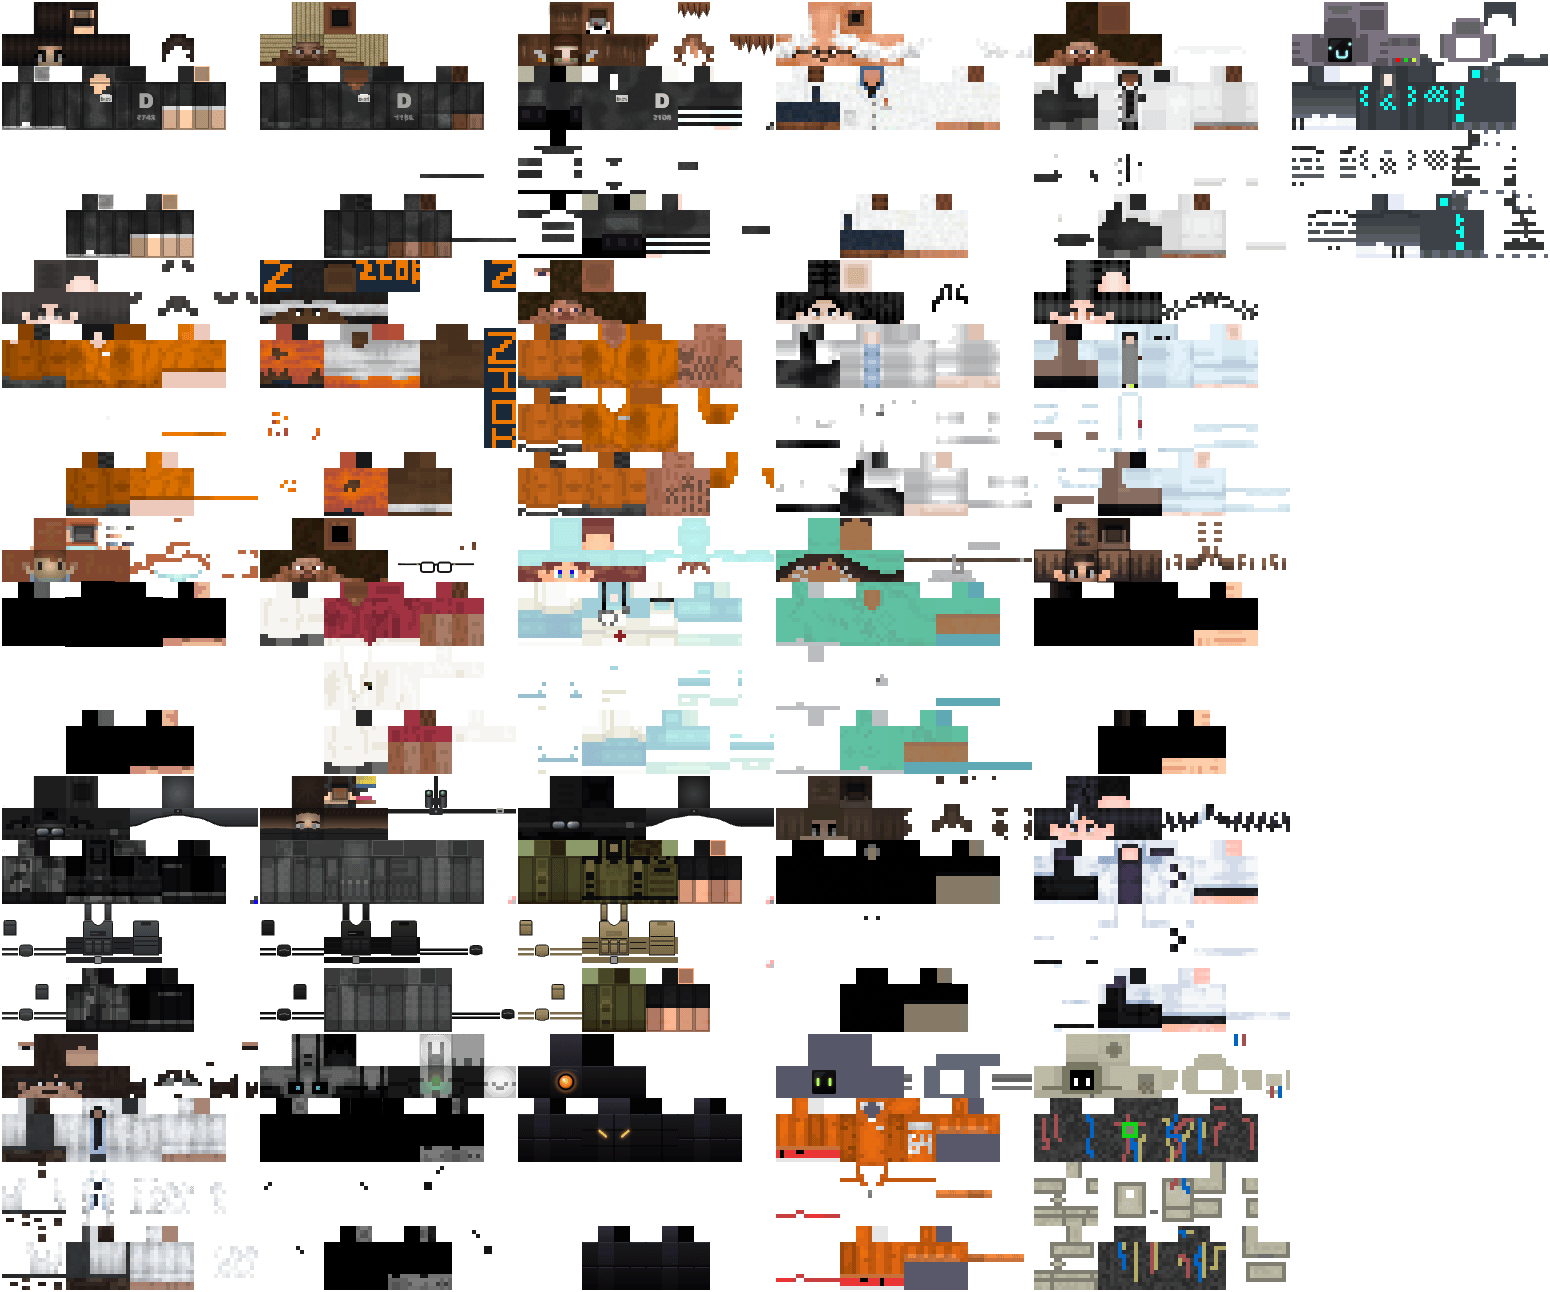
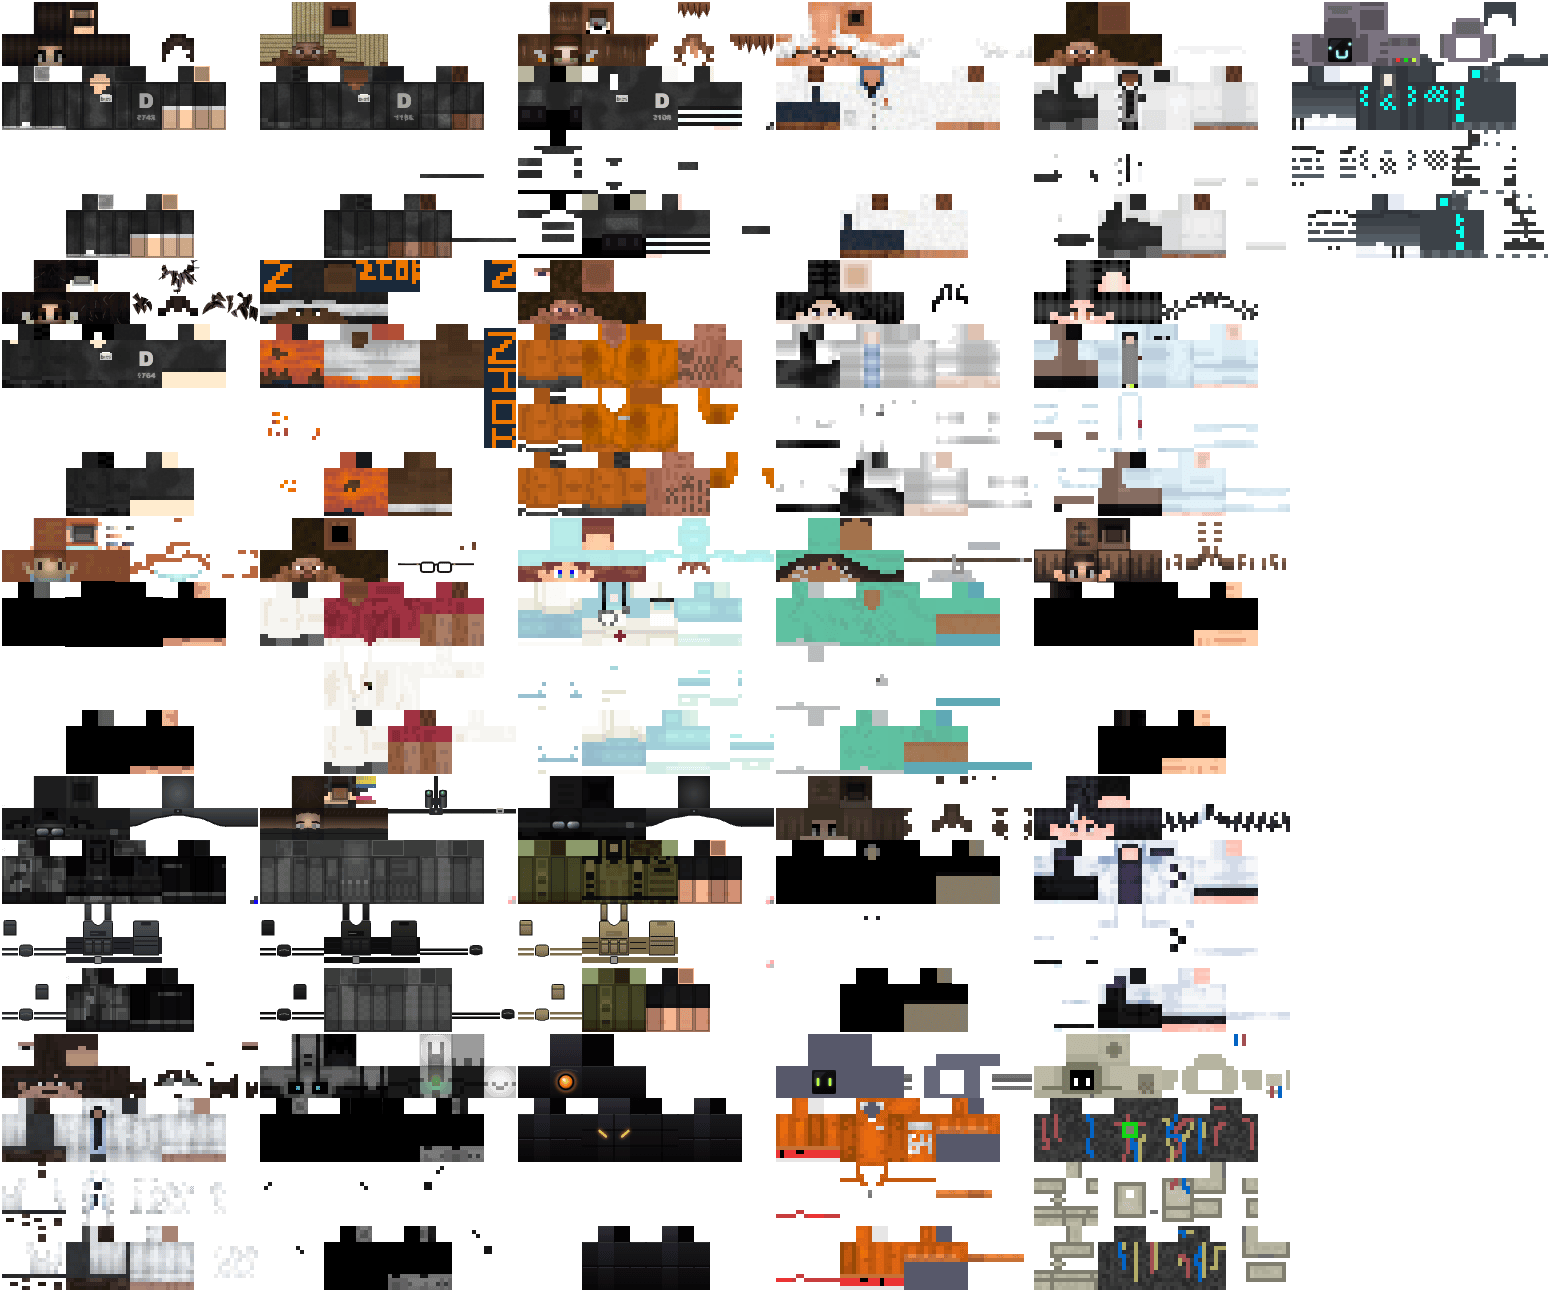
feat: improve d-2

Changed region(s): [[0.0, 0.1858, 0.1858, 0.3096], [0.031, 0.3406, 0.1548, 0.4025]]

diff --git a/docs/skins.md b/docs/skins.md
@@ -122,6 +122,17 @@ In skin pixels, as `[x, y]` of a face's top-left corner. Multiply by 4 in the sv
 - Widening slim arms, clear each arm's 16px square first. Else the old layout's overlay texels show through the new one's gaps.
 - A screen for a face (`robot-2`, `robot-4`) is drawn near-black, its eyes in a bright core over a blurred glow. A dark grey screen reads faded in the World.
 - Fine detail on a face, e.g. glasses (`medic-1`), goes on the head overlay as opaque strokes, its pixel original cleared. The eye slices never touch the overlay.
+- Hair at the back of the head is drawn on the head overlay as tufts, never as one even plane, which reads as a raised panel (`d-4`).
+  - The back takes pointed clumps of differing lengths, hanging from its top edge with gaps between. A crown covers the rear of the top face, its tips pointing forward. Each side takes a short clump at its rear.
+  - The top face's upper edge meets the back. The right side's rear is its left edge, and the left side's is its right edge.
+  - The base hair under them takes each tuft's blurred shadow just past its tips, and strand lines carrying on from the tufts'.
+  - Drawn over a filtered image, they take the same filter (`#punch`), else their browns do not match.
+- Messy hair mixes the two layers (`d-2`).
+  - The overlay takes short curved tufts of random size and mixed tones, each clipped to its face. On top they lie away from the crown, and elsewhere they hang down.
+  - The base hair takes streaks along the same flow, clipped to its hair texels, and the tufts' blurred shadows.
+  - A seeded random keeps it the same each time it is generated.
+- Eyes are never too light, and brows never bold black. Mute an eye's white, darken its pupil, and draw the brows in a dark hair colour (`d-2`).
+- Accessories and loose strands on the head overlay, e.g. clips, a knot, stray tufts, read as noise at this size. Remove them.
 - Long hair below the head does not work, on the base or the overlay. Remove it from the body, each texel taking the nearest suit colour on its face (`d-4`).
 - A D-class skin has a big D on its back, over a number made unreadable by `#worn`, and a chest patch with its own worn tag. Copy d-0's `inmate marks` group, changing the numbers.
 - A D-class suit is grey, whatever the download's colour. It is greyed (`saturation`), darkened (`multiply`) and blotched (`#blotches`), as d-0's is, all clipped to its own suit texels (`suit-pale`, a rect per run).
